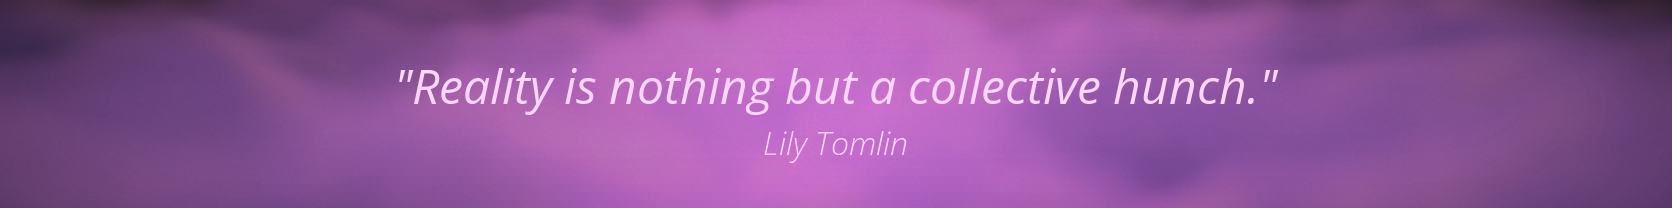
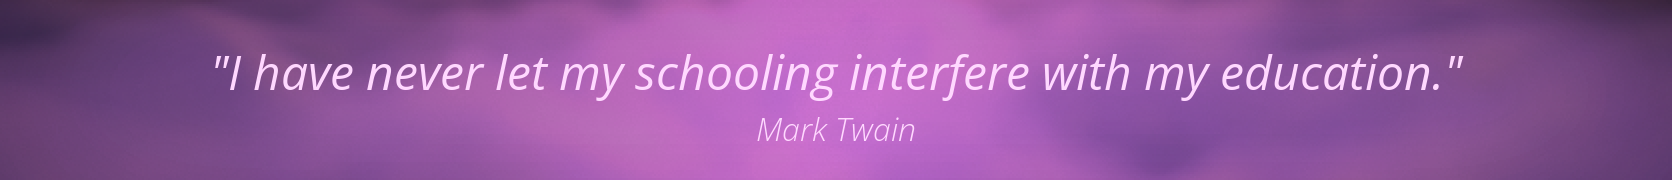
smaller height, adjust alignment

diff --git a/rmquote.py b/rmquote.py
@@ -22,7 +22,7 @@ while txtlen > 1634:
     openSans = ImageFont.truetype("fonts/OpenSans-Italic.ttf", font_pt)
     txtlen = tl.textlength(quote, font=openSans)
 
-tl.text((836, 104), quote, font=openSans, fill=(255, 216, 255), align="center", anchor="ms")
-tl.text((836, 142), author, font=openSansAuth, fill=(255, 216, 255), align="center", anchor="mm")
+tl.text((836, 90), quote, font=openSans, fill=(255, 216, 255), align="center", anchor="ms")
+tl.text((836, 128), author, font=openSansAuth, fill=(255, 216, 255), align="center", anchor="mm")
 
 bgimg.save("quote.png")
